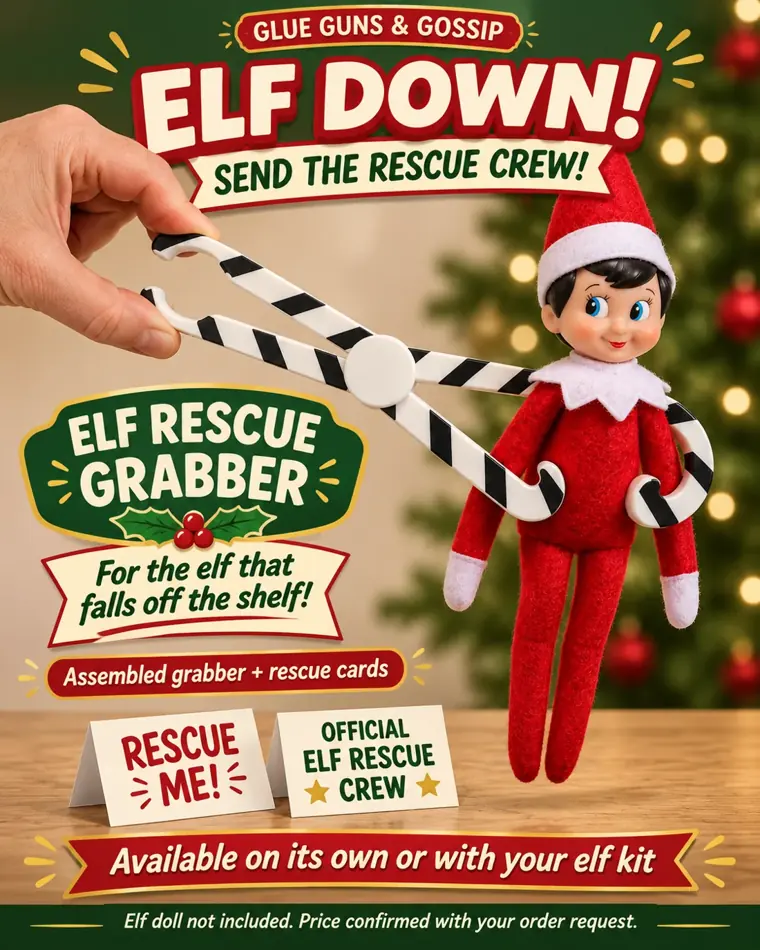
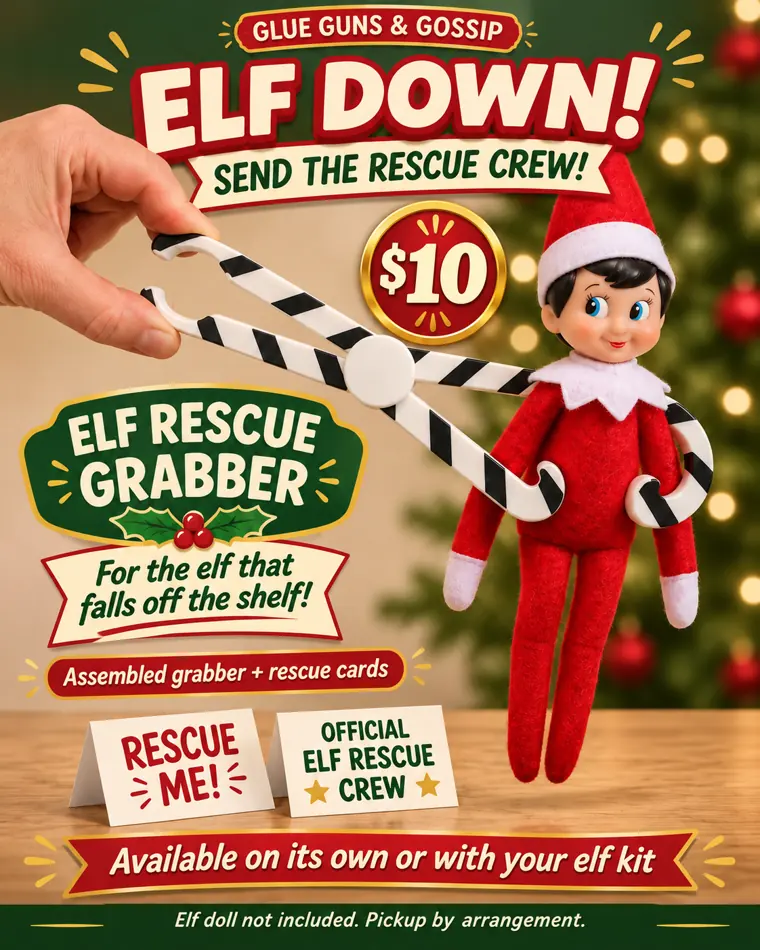
Set Elf Rescue Grabber and optional kit add-on to $10

diff --git a/elf-mischief.html b/elf-mischief.html
@@ -24,7 +24,7 @@
 <a class="button" href="https://form.jotform.com/263188443651058?q5_radio3=12-Day+Elf+Advent+Accessory+Pack">Request my $20 accessory gift kit</a><p class="feature-fine">Choose “12-Day Elf Advent Accessory Pack” on the order form. We confirm stock, your total, and fulfillment before payment.</p></div></article>
 <article class="feature-product feature-product--rescue" id="elf-rescue-grabber" aria-labelledby="rescue-title">
 <figure><img src="assets/elf-launch/elf-rescue-grabber.webp" width="900" height="1125" loading="lazy" alt="Elf Down! Send the Rescue Crew: a fully assembled striped grabber lifting an elf, with Rescue Me and Official Elf Rescue Crew cards."></figure>
-<div><p class="eyebrow">For the elf that falls off the shelf</p><h2 id="rescue-title">ELF DOWN!<br>Send the Rescue Crew!</h2><p>Turn an elf tumble into a little rescue mission. The assembled grabber helps a grown-up lift or move the elf without touching it directly.</p><ul><li>One fully assembled elf grabber</li><li>A folding “Rescue Me!” sign</li><li>An “Official Elf Rescue Crew” card</li></ul><p>Order the grabber on its own or request it as an add-on to any elf kit.</p><p class="feature-fine">Price and available color/design are confirmed with your request before payment. Elf doll not included. A grown-up operates the grabber.</p><a class="button" href="https://form.jotform.com/263188443651058?q5_radio3=Elf+Rescue+Grabber+only+%E2%80%94+price+confirmed+by+email">Request an Elf Rescue Grabber</a></div></article>
+<div><p class="eyebrow">For the elf that falls off the shelf</p><h2 id="rescue-title">ELF DOWN!<br>Send the Rescue Crew!</h2><p class="feature-price">$10 <small>assembled grabber + rescue cards</small></p><p>Turn an elf tumble into a little rescue mission. The assembled grabber helps a grown-up lift or move the elf without touching it directly.</p><ul><li>One fully assembled elf grabber</li><li>A folding “Rescue Me!” sign</li><li>An “Official Elf Rescue Crew” card</li></ul><p>Order the grabber on its own or request it as an add-on to any elf kit.</p><p class="feature-fine">Available color/design, fulfillment, and your final total are confirmed with your request before payment. Elf doll not included. A grown-up operates the grabber.</p><a class="button" href="https://form.jotform.com/263188443651058?q5_radio3=Elf+Rescue+Grabber+only+%E2%80%94+%2410">Request my $10 Elf Rescue Grabber</a></div></article>
 </section>
 <section class="shell" id="scene-gallery" aria-labelledby="gallery-title"><div class="section-heading"><div><p class="eyebrow">Meet the mischief</p><h2 id="gallery-title">Find their next favorite morning.</h2></div><p class="intro">The eight scenes marked <strong>Emergency Kit choice</strong> are available in the pick-three kit. For the other scenes and activities, tell us your favorites in the order form’s Notes. We’ll confirm your kit’s assortment before payment.</p></div>
 <span id="emergency-scenes"></span>
